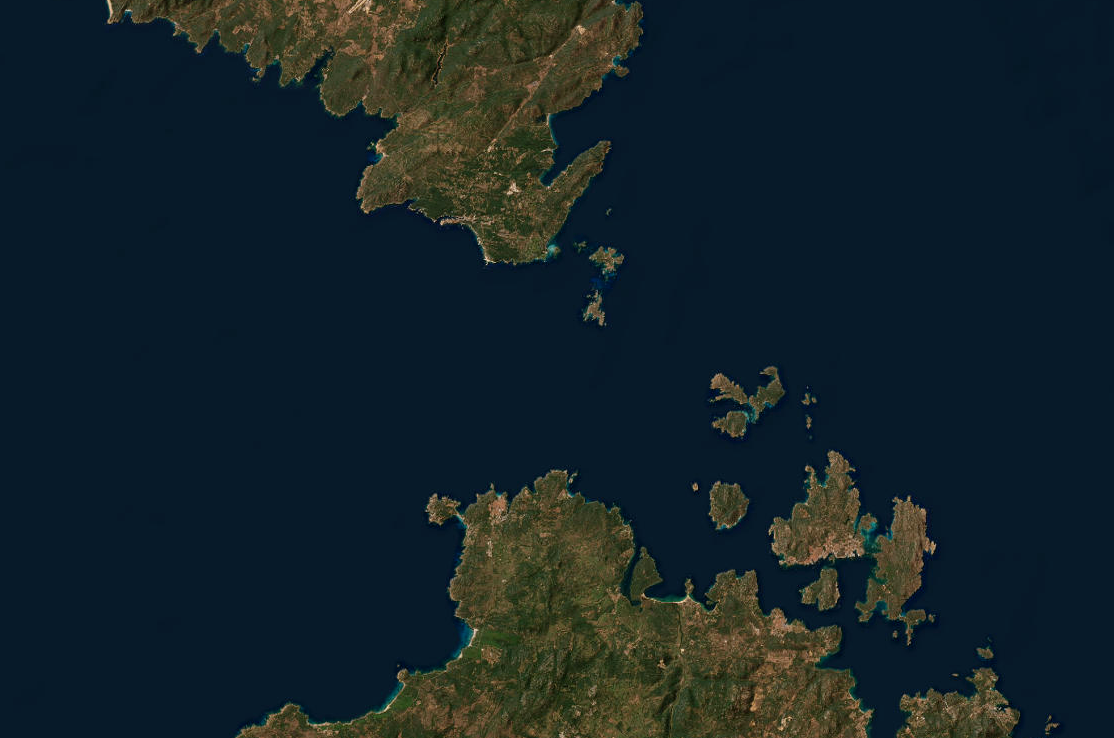
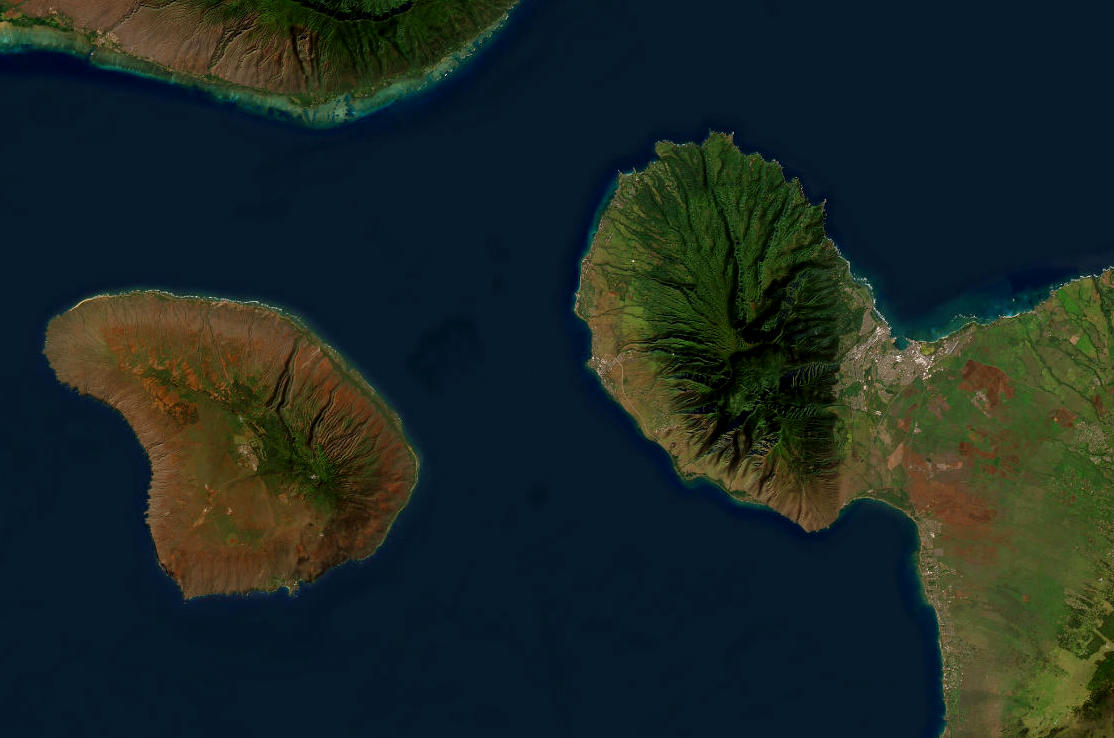
MapStage: split Pixi teardown from build effect
Earlier fix to the hot-seat replay used deps=[] for the build effect,
which left some edge cases broken (StrictMode double-mount + initial
race). Restructure into two effects:

  1. Mount-only effect (deps=[]) that owns teardown — runs cleanup
     ONLY when MapStage truly unmounts (e.g. region swap remounts
     via key={assetVersion}).
  2. Build effect (deps=[game]) that constructs Pixi the first time
     game is available, bails on subsequent game-state changes
     (handlesRef.current already set), and only cancels in-flight
     async builds in its own cleanup.

This way:
  - Game-state mutations (hot-seat snapshot swap, post-resolve
    refetch) NEVER tear down Pixi.
  - MapStage instance lifecycle (region swap) DOES tear down
    cleanly.
  - StrictMode double-mount no longer leaves orphan Pixi apps.

diff --git a/web/src/components/MapStage.tsx b/web/src/components/MapStage.tsx
@@ -880,21 +880,27 @@ export function MapStage() {
   const setOrder = useStore((s) => s.setOrder)
   const cancelTargeting = useStore((s) => s.cancelTargeting)
 
-  // Mount Pixi ONCE per MapStage instance. We deliberately don't depend
-  // on `game` here — depending on it would tear down + rebuild Pixi
-  // every time game changes (e.g. each pass of the hot-seat 2-POV
-  // replay, which swaps game between snapshots). MapStage already
-  // remounts on assetVersion changes via key={assetVersion} in App, so
-  // region swaps / regens still rebuild Pixi correctly.
+  // Mount-only teardown. Runs once per MapStage instance — destroys
+  // Pixi when the component truly unmounts (e.g. region swap remounts
+  // via key=assetVersion). This is split from the build effect so
+  // game-state mutations don't tear Pixi down.
   useEffect(() => {
-    if (!ref.current) return
-    const initialGame = useStore.getState().game
-    if (!initialGame) return
+    return () => {
+      handlesRef.current?.destroy()
+      handlesRef.current = null
+    }
+  }, [])
+
+  // Build Pixi the first time `game` is available. Bails on subsequent
+  // game changes (handlesRef.current is already set) — those are
+  // reconciled by the redraw effect, not by rebuilding the app.
+  useEffect(() => {
+    if (!game || !ref.current || handlesRef.current) return
     let cancelled = false
     ;(async () => {
       const h = await buildPixi(
         ref.current!,
-        initialGame,
+        game,
         (hex, unit) => {
           // If targeting mode is active, the next click commits the order.
           const st = useStore.getState()
@@ -904,10 +910,8 @@ export function MapStage() {
             if (!own) {
               cancelTargeting()
             } else if (hex && commitTargetingClick(t, own, hex, unit, st.game)) {
-              // setOrder already happened inside commitTargetingClick
               return
             } else {
-              // invalid click in targeting mode: keep mode active, no-op.
               return
             }
             return
@@ -926,13 +930,13 @@ export function MapStage() {
       }
       handlesRef.current = h
     })()
-    return () => {
-      cancelled = true
-      handlesRef.current?.destroy()
-      handlesRef.current = null
-    }
+    // The cleanup here only cancels an in-flight async build (if `game`
+    // changes mid-build, we don't want a stale Pixi to land in
+    // handlesRef). It does NOT destroy a built Pixi — the mount-only
+    // effect above owns that.
+    return () => { cancelled = true }
     // eslint-disable-next-line react-hooks/exhaustive-deps
-  }, [])
+  }, [game])
 
   // redraw on selection / state / view-mode change OR pending-order change.
   const pendingOrdersHash = useStore((s) => JSON.stringify(s.pendingOrders))
